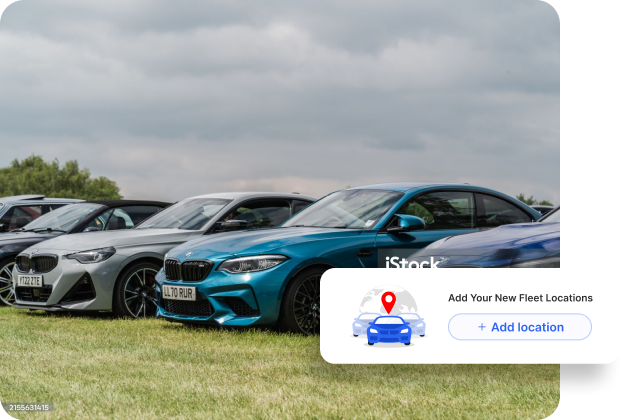
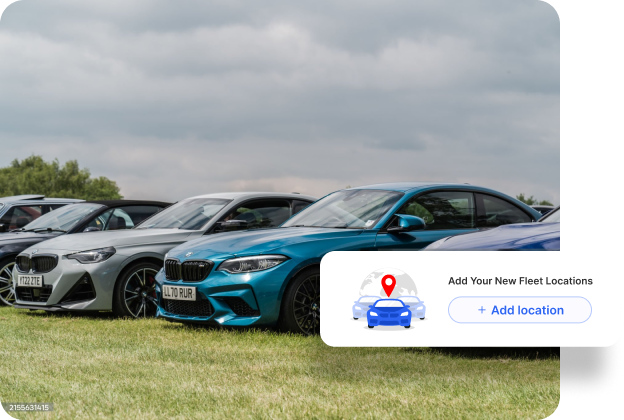
Checked the all page under the platform and resolve some ui bugs

Changed region(s): [[0.4872, 0.5881, 0.9744, 0.8667]]

diff --git a/src/app/(subPage)/products/intelligent-alerts/page.tsx b/src/app/(subPage)/products/intelligent-alerts/page.tsx
@@ -142,34 +142,11 @@ const page = () => {
             description="Set alerts based on time or mileage to adapt your fleet needs."
             imagePath="/images/products/alert-step-2.svg"
           />
-
-          <div
-            className={`relative z-[200] top-[0px] mx-auto transform flex-col h-[536px] w-full`}
-          >
-            <div className=" bg-white absolute z-50 rounded-[24px] pt-10 px-[30px] flex flex-col gap-[10px] w-full h-full">
-              {/* Card Header */}
-              <div className="font-openSans text-center lg:text-left">
-                <h3 className="text-[#04082C] text-[22px] font-bold">
-                  Get Alerted
-                </h3>
-                <p className="text-[14px] text-[#7D7D7D] leading-5 mt-[5px]">
-                  Receive timely alerts and stay ahead of your entire fleet
-                  operations.
-                </p>
-              </div>
-              <div className="w-full mt-[24px] overflow-hidden">
-                <Image
-                  src="/images/products/alert-step-3.svg"
-                  alt="Remote Scalability Hero"
-                  width={327}
-                  height={700}
-                  className="object-contain w-full h-[550px] lg:h-[390px]"
-                  quality={100}
-                />
-              </div>
-            </div>
-            <div className="absolute top-[1vh] z-[20] rounded-[2px] bg-black opacity-[0.07] blur-[20px] h-[565px] w-[calc(100%-15px)] max-w-[1000px] left-[8px]" />
-          </div>
+          <StepCard
+            title="Get Alerted"
+            description=" Receive timely alerts and stay ahead of your entire fleet operations."
+            imagePath="/images/products/alert-step-3.svg"
+          />
         </div>
       </section>
       {/* how fleetblox connected section */}
@@ -226,9 +203,10 @@ const page = () => {
               icon={<data.icon />}
               title={data.title}
               description={data.description}
-              className={`w-full ${index === 4 &&
+              className={`w-full ${
+                index === 4 &&
                 "md:col-span-2 md:max-w-[380px] mx-auto h-[210px]"
-                }`}
+              }`}
             />
           ))}
         </div>

diff --git a/src/app/(subPage)/subscription/eagle-eye-fleet/components/RealtimeFleetAwareness.tsx b/src/app/(subPage)/subscription/eagle-eye-fleet/components/RealtimeFleetAwareness.tsx
@@ -35,13 +35,13 @@ const RealtimeFleetAwareness = () => {
             <div key={index} className={`flex relative max-w-[480px] w-full`}>
               <div className="absolute top-[8px] left-[8px] right-[8px] z-[10] rounded-[24px] bg-[rgba(0,0,0,0.08)] blur-[10px] h-[calc(100%+8px)]"></div>
               {/* right card */}
-              <div className="z-50 p-[20px] bg-white w-full rounded-[16px] flex items-center text-center gap-5">
+              <div className="z-50 p-[20px] bg-white w-full rounded-[16px] flex items-center  gap-5">
                 <div>{data?.icon}</div>
                 <div className="text-left">
                   <h3 className="text-[#333] text-[18px] font-bold font-openSans mt-[10px] mb-[5px]">
                     {data?.title}
                   </h3>
-                  <p className="text-[#7D7D7D] font-openSans text-[14px] leading-5 text-center">
+                  <p className="text-[#7D7D7D] font-openSans text-[14px] leading-5">
                     {data?.description}
                   </p>
                 </div>
